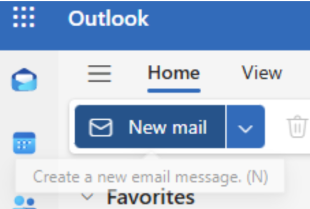
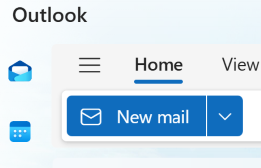
image fix

diff --git a/microsoft-365/solutions/allow-members-to-send-as-or-send-on-behalf-of-group.md b/microsoft-365/solutions/allow-members-to-send-as-or-send-on-behalf-of-group.md
@@ -76,7 +76,7 @@ After permissions are assigned, users can send an email using the group's email 
 
 The following steps can be used to send an email as a group using the new Outlook or the Outlook on the web:
 
-1. Click **New email**.
+1. Click **New mail**.
 
     :::image type="content" source="../media/new-mail.png" alt-text="Screenshot of the New email option in Outlook.":::
 
